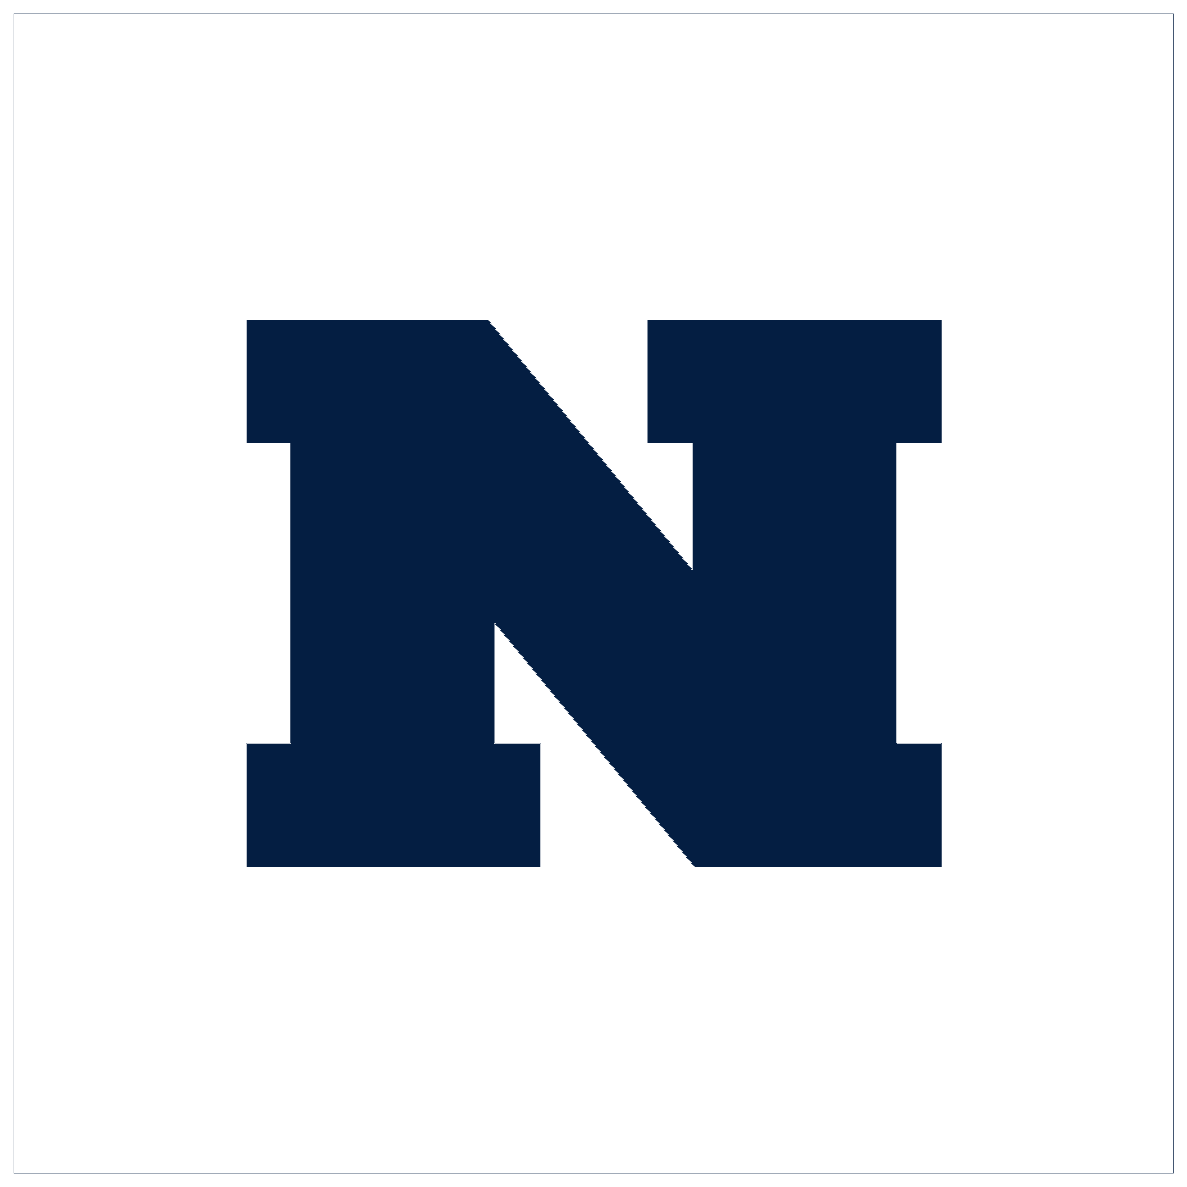
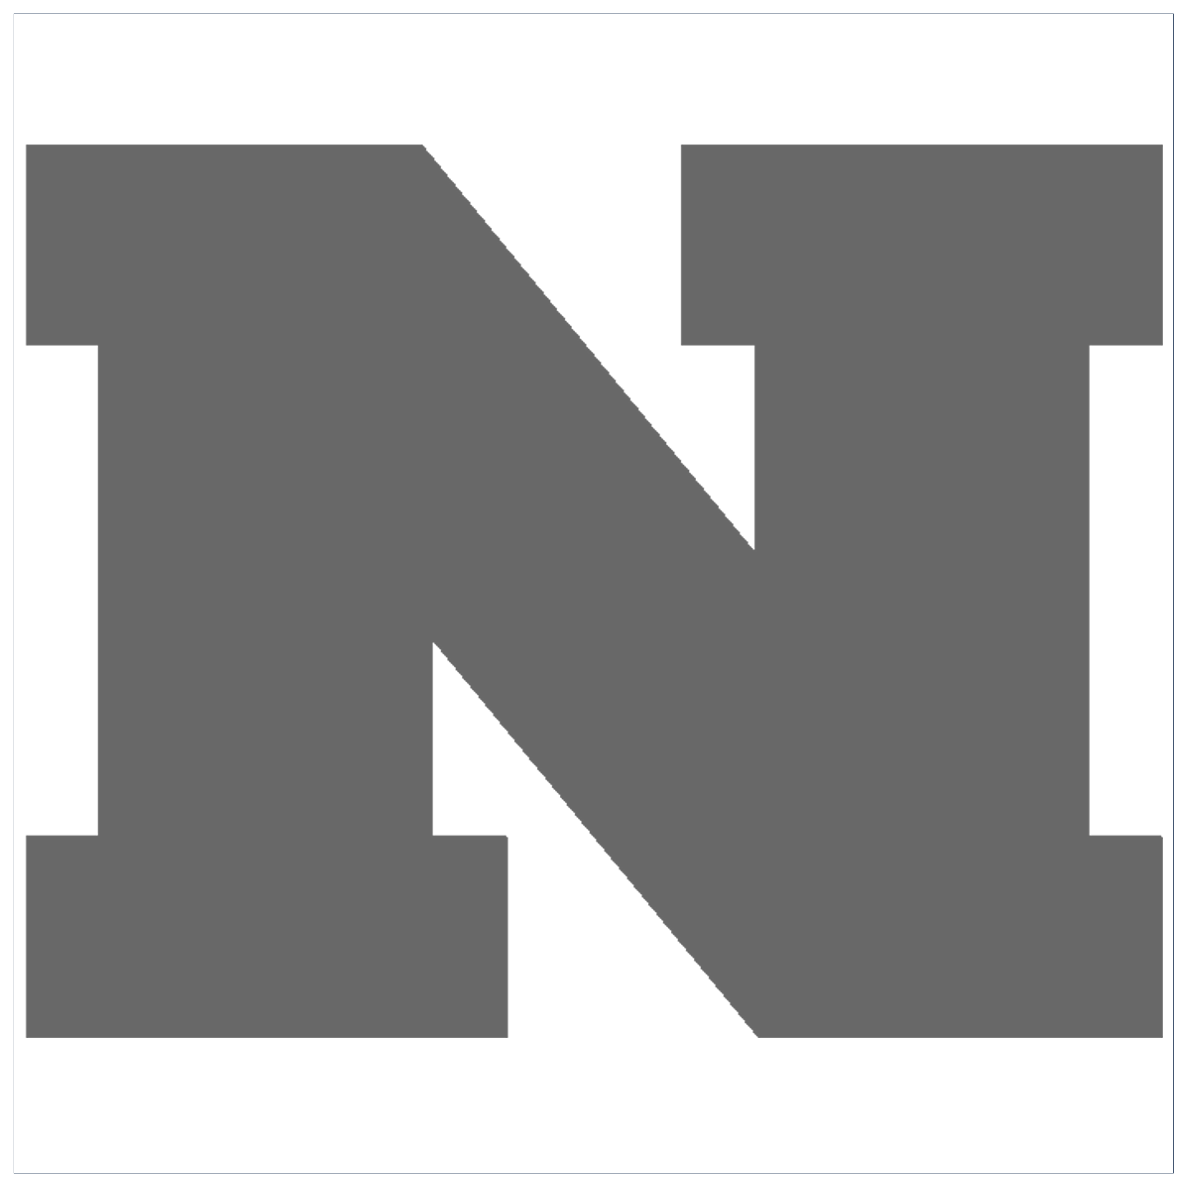
Added CustomTitlebar + Fix for hit testing

diff --git a/imgui-borderless-win32/main.cpp b/imgui-borderless-win32/main.cpp
@@ -22,6 +22,10 @@
 #pragma comment( lib, "msimg32.lib" )
 
 #include "swcadef.h" 
+#define STB_IMAGE_IMPLEMENTATION
+#define GL_CLAMP_TO_EDGE 0x812F
+#include "stb_image.h"
+
 #include <atomic>
 #include <vector>
 #include <iostream>
@@ -38,6 +42,7 @@ static HGLRC            g_hRC;
 static WGL_WindowData   g_MainWindow;
 static int              g_Width;
 static int              g_Height;
+static bool             g_Focused;
 
 struct ATOMIC_RECTVA
 {
@@ -88,6 +93,39 @@ static void Hook_Renderer_SwapBuffers(ImGuiViewport* viewport, void*)
         ::SwapBuffers(data->hDC);
 }
 
+bool LoadTextureFromFile(const char* filename, GLuint* out_texture, int* out_width, int* out_height)
+{
+    // Load from file
+    int image_width = 0;
+    int image_height = 0;
+    unsigned char* image_data = stbi_load(filename, &image_width, &image_height, NULL, 4);
+    if (image_data == NULL)
+        return false;
+
+    // Create a OpenGL texture identifier
+    GLuint image_texture;
+    glGenTextures(1, &image_texture);
+    glBindTexture(GL_TEXTURE_2D, image_texture);
+
+    // Setup filtering parameters for display
+    glTexParameteri(GL_TEXTURE_2D, GL_TEXTURE_MIN_FILTER, GL_LINEAR);
+    glTexParameteri(GL_TEXTURE_2D, GL_TEXTURE_MAG_FILTER, GL_LINEAR);
+    glTexParameteri(GL_TEXTURE_2D, GL_TEXTURE_WRAP_S, GL_CLAMP_TO_EDGE); // This is required on WebGL for non power-of-two textures
+    glTexParameteri(GL_TEXTURE_2D, GL_TEXTURE_WRAP_T, GL_CLAMP_TO_EDGE); // Same
+
+    // Upload pixels into texture
+#if defined(GL_UNPACK_ROW_LENGTH) && !defined(__EMSCRIPTEN__)
+    glPixelStorei(GL_UNPACK_ROW_LENGTH, 0);
+#endif
+    glTexImage2D(GL_TEXTURE_2D, 0, GL_RGBA, image_width, image_height, 0, GL_RGBA, GL_UNSIGNED_BYTE, image_data);
+    stbi_image_free(image_data);
+
+    *out_texture = image_texture;
+    *out_width = image_width;
+    *out_height = image_height;
+
+    return true;
+}
 int APIENTRY wWinMain(_In_ HINSTANCE hInstance,
     _In_opt_ HINSTANCE hPrevInstance,
     _In_ LPWSTR    lpCmdLine,
@@ -166,10 +204,28 @@ int APIENTRY wWinMain(_In_ HINSTANCE hInstance,
         ImFontConfig fontConfig;
         fontConfig.FontDataOwnedByAtlas = false;
         //ImFont* robotoFont = io.Fonts->AddFontFromMemoryTTF((void*)g_RobotoRegular, sizeof(g_RobotoRegular), 20.0f, &fontConfig);
-        ImFont* myriadPro = io.Fonts->AddFontFromFileTTF("../res/MyriadPro-Light.ttf", 20.0f);
+        ImFont* myriadPro = io.Fonts->AddFontFromFileTTF("../res/MyriadPro-Light.ttf", 16.0f);
         //io.FontDefault = robotoFont;
         io.FontDefault = myriadPro;
         io.Fonts->Build();
+
+        int my_image_width = 0;
+        int my_image_height = 0;
+        GLuint my_image_texture = 0;
+        bool ret = LoadTextureFromFile("../res/unr-active.png", &my_image_texture, &my_image_width, &my_image_height);
+        IM_ASSERT(ret);
+
+        int my_inactive_width = 0;
+        int my_inactive_height = 0;
+        GLuint my_inactive_texture = 0;
+        ret = LoadTextureFromFile("../res/unr-inactive.png", &my_inactive_texture, &my_inactive_width, &my_inactive_height);
+        IM_ASSERT(ret);
+
+        int my_close_width = 0;
+        int my_close_height = 0;
+        GLuint my_close_texture = 0;
+        ret = LoadTextureFromFile("../res/close.png", &my_close_texture, &my_close_width, &my_close_height);
+        IM_ASSERT(ret);
 
         if (io.ConfigFlags & ImGuiConfigFlags_ViewportsEnable)
         {
@@ -216,9 +272,10 @@ int APIENTRY wWinMain(_In_ HINSTANCE hInstance,
             ImGui_ImplWin32_NewFrame();
             ImGui::NewFrame();
             //update window rects
-            HWND vp = (HWND)ImGui::GetMainViewport()->PlatformHandle;
+            ImGuiViewport* vp = ImGui::GetMainViewport();
+            HWND handle = (HWND)vp->PlatformHandle;
             RECT r;
-            GetWindowRect(vp, &r);
+            GetWindowRect(handle, &r);
             ImVec2 origin = { (float)r.left, (float)r.top };
 
             g_Origin.store(origin);
@@ -232,12 +289,39 @@ int APIENTRY wWinMain(_In_ HINSTANCE hInstance,
                 ImVec2 size = ImGui::GetWindowSize();
                 RECT rect = { origin.x + pos.x, origin.y + pos.y, origin.x + (pos.x + size.x), origin.y + (pos.y + size.y) };
                 WindowRects.push_back(rect);
+
+                float offset = ImGui::GetFrameHeight() * .25f/2.0f;
+                ImVec2 start = ImGui::GetCursorScreenPos();
+                start.y += offset;
+                ImVec2 end = { ((start.x + ImGui::GetFrameHeight()) * .75f) + offset/2.0f, ((start.y + ImGui::GetFrameHeight()) * .75f) + offset/2.0f};
+                
+                if (g_Focused) ImGui::GetWindowDrawList()->AddImage((void*)(intptr_t)my_image_texture, start, end);
+                else ImGui::GetWindowDrawList()->AddImage((void*)(intptr_t)my_inactive_texture, start, end);
+
+                ImGui::Dummy({(float)end.x - start.x, 0});
                 if (ImGui::BeginMenu("File"))
                 {
                     if (ImGui::MenuItem("New"))
                     {
                     }
                     ImGui::EndMenu();
+                }
+                if (ImGui::BeginMenu("Edit"))
+                {
+                    ImGui::EndMenu();
+                }
+                if (ImGui::BeginMenu("Settings"))
+                {
+                    ImGui::EndMenu();
+                }
+                if (ImGui::BeginMenu("Help"))
+                {
+                    ImGui::EndMenu();
+                }
+                ImGui::SetCursorPos({ ImGui::GetWindowWidth() - ImGui::GetFrameHeight() - ImGui::GetStyle().FramePadding.x, ImGui::GetCursorPos().y});
+                if (ImGui::ImageButton((void*)(intptr_t)my_close_texture, {ImGui::GetFrameHeight() - ImGui::GetStyle().FramePadding.x, ImGui::GetFrameHeight() - ImGui::GetStyle().FramePadding.x}))
+                {
+                    PostMessage(hwnd, WM_QUIT, 0, 0);
                 }
             }
             ImGui::EndMainMenuBar();
@@ -335,7 +419,9 @@ int APIENTRY wWinMain(_In_ HINSTANCE hInstance,
             {
                 std::cout << window->Name << std::endl;
 
-                if ((!(std::string(window->Name).find("Dock") != std::string::npos)) ||
+
+                if ((!(std::string(window->Name).find("Default") != std::string::npos) &&
+                    (!(std::string(window->Name).find("Dock") != std::string::npos))) ||
                     (std::string(window->Name).find("Dear ImGui Demo") != std::string::npos))
                 {
                     ImVec2 pos = window->Pos;
@@ -469,6 +555,13 @@ LRESULT WINAPI WndProc(HWND hWnd, UINT msg, WPARAM wParam, LPARAM lParam)
             SWP_FRAMECHANGED);
         return 0;
     }
+    case WM_SETFOCUS:
+        g_Focused = true;
+        break;
+
+    case WM_KILLFOCUS:
+        g_Focused = false;
+        break;
     case WM_NCCALCSIZE: {
         if (wParam == TRUE && true) {
             auto& params = *reinterpret_cast<NCCALCSIZE_PARAMS*>(lParam);
